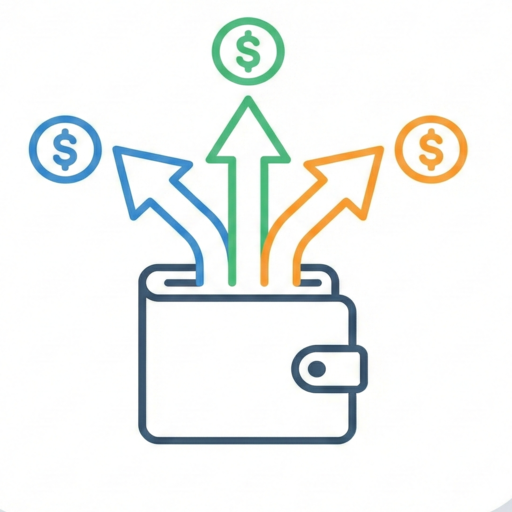
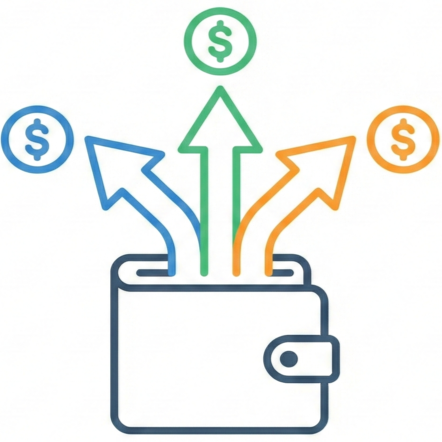
style: large input and small save button

Changed region(s): [[0.0, 0.0, 1.0, 1.0], [0.9706, 0.9706, 1.0, 1.0]]

diff --git a/app/page.tsx b/app/page.tsx
@@ -69,6 +69,11 @@ export default function Home() {
   const [archives, setArchives] = useState<Archives>({});
   const [isCsvMode, setIsCsvMode] = useState(false);
   
+  // --- 編集モード用 State ---
+  const [isEditModalOpen, setIsEditModalOpen] = useState(false);
+  const [editIndex, setEditIndex] = useState<number | null>(null);
+  const [editForm, setEditForm] = useState({ amount: 0, category: "", memo: "", date: "" });
+
   // --- テーマ & リセット用 ---
   const [theme, setTheme] = useState<ThemeOption>('system');
   const [tempResetValues, setTempResetValues] = useState({ special: 0, investCash: 0, investStock: 0 });
@@ -396,6 +401,7 @@ export default function Home() {
     } catch (e) { alert("更新失敗"); }
   };
 
+  // --- 削除処理 ---
   const deleteItem = async (index: number) => {
     if (!user) return;
     if (!confirm("削除しますか？")) return;
@@ -410,6 +416,77 @@ export default function Home() {
     await updateDoc(doc(db, "users", user.uid), { history: newH, savings_balance: ns, invest_cash_balance: nic, invest_stock_balance: nis });
     loadData();
   };
+
+  // --- 編集モード開始 ---
+  const startEdit = (index: number) => {
+    const item = history[index];
+    setEditIndex(index);
+    setEditForm({
+      amount: item.amount,
+      category: item.category,
+      memo: item.memo,
+      date: new Date(item.date).toISOString().split('T')[0] // YYYY-MM-DD
+    });
+    setIsEditModalOpen(true);
+  };
+
+  // --- 編集保存処理 ---
+  const handleUpdateTransaction = async () => {
+    if (editIndex === null || !user) return;
+    
+    try {
+      const docRef = doc(db, "users", user.uid);
+      
+      // 1. 旧データの影響を打ち消す（削除と同じロジック）
+      const oldItem = history[editIndex];
+      let ns = savings, nic = investCash, nis = investStock;
+      
+      if (oldItem.category === "特別支出") ns += oldItem.amount;
+      else if (oldItem.category === "貯金") nic += oldItem.amount;
+      else if (oldItem.category === "投資") { nic += oldItem.amount; nis -= oldItem.amount; }
+      else if (oldItem.category === "臨時収入") nic -= oldItem.amount;
+
+      // 2. 新データの影響を適用（追加と同じロジック）
+      const newAmount = Number(editForm.amount);
+      if (editForm.category === "特別支出") ns -= newAmount;
+      else if (editForm.category === "貯金") nic -= newAmount;
+      else if (editForm.category === "投資") { nic -= newAmount; nis += newAmount; }
+      else if (editForm.category === "臨時収入") nic += newAmount;
+
+      // 3. タイプ判定
+      let newType: 'expense' | 'income' | 'transfer' = 'expense';
+      if (editForm.category === "投資") newType = 'transfer';
+      else if (editForm.category === "臨時収入") newType = 'income';
+
+      // 4. 配列更新
+      const newHistory = [...history];
+      const updateDate = new Date(editForm.date);
+      const now = new Date();
+      updateDate.setHours(now.getHours(), now.getMinutes()); // 時刻は現在時刻で更新
+
+      newHistory[editIndex] = {
+        amount: newAmount,
+        category: editForm.category,
+        memo: editForm.memo,
+        date: updateDate.toISOString(),
+        type: newType
+      };
+
+      // 5. DB保存
+      await updateDoc(docRef, { 
+        history: newHistory, 
+        savings_balance: ns, 
+        invest_cash_balance: nic, 
+        invest_stock_balance: nis 
+      });
+
+      setIsEditModalOpen(false);
+      setEditIndex(null);
+      loadData();
+
+    } catch(e) { alert("更新に失敗しました"); }
+  };
+
 
   const downloadCSV = () => {
     let allData = [...history, ...Object.values(archives).flat()];
@@ -440,12 +517,12 @@ export default function Home() {
             Googleでログイン
           </button>
           
-          {/* このアプリについて (修正済み) */}
+          {/* このアプリについて */}
           <div className="text-left border-t border-gray-100 dark:border-gray-700 pt-6 mt-6">
             <h3 className="text-xs font-bold text-gray-400 dark:text-gray-500 mb-3 tracking-widest uppercase">ABOUT THIS APP</h3>
             <div className="bg-gray-50 dark:bg-gray-800/50 p-5 rounded-2xl text-xs text-gray-600 dark:text-gray-300 border border-gray-200 dark:border-gray-700 leading-relaxed">
               <p className="font-bold text-indigo-600 dark:text-indigo-400 mb-2 text-sm">
-                「3つの財布」管理術
+                富裕層も実践する「3つの財布」管理術
               </p>
               <p className="mb-3">
                 「支出の額は、収入の額に達するまで膨張する」というパーキンソンの法則を避けるため、お金を物理的に3つの財布（生活費・特別費・貯金と投資）に分けるアプリです。
@@ -464,7 +541,6 @@ export default function Home() {
 
   return (
     <div className="min-h-screen bg-gray-50 dark:bg-gray-900 transition-colors duration-300 font-sans text-gray-800 dark:text-gray-100 pb-10">
-      {/* max-w-md から md:max-w-4xl に変更してPC対応 */}
       <div className="max-w-md md:max-w-4xl mx-auto p-4">
         
         {/* Header */}
@@ -480,6 +556,46 @@ export default function Home() {
             </button>
           </div>
         </div>
+
+        {/* 編集モーダル */}
+        {isEditModalOpen && (
+          <div className="fixed inset-0 bg-black/50 backdrop-blur-sm z-50 flex items-center justify-center p-4">
+            <div className="bg-white dark:bg-gray-800 rounded-2xl shadow-2xl p-6 w-full max-w-sm animation-fade-in border border-gray-100 dark:border-gray-700">
+               <h3 className="text-sm font-bold text-gray-700 dark:text-gray-200 mb-4 flex items-center gap-2">
+                 <svg className="w-4 h-4" fill="none" stroke="currentColor" strokeWidth="2" viewBox="0 0 24 24"><path d="M11 5H6a2 2 0 00-2 2v11a2 2 0 002 2h11a2 2 0 002-2v-5m-1.414-9.414a2 2 0 112.828 2.828L11.828 15H9v-2.828l8.586-8.586z" strokeLinecap="round" strokeLinejoin="round"/></svg>
+                 履歴の編集
+               </h3>
+               <div className="space-y-3">
+                 <div>
+                   <label className="text-[10px] text-gray-400 block mb-1">金額</label>
+                   <input type="number" className="w-full p-2 bg-gray-50 dark:bg-gray-700 rounded text-sm font-mono"
+                     value={editForm.amount} onChange={(e)=>setEditForm({...editForm, amount: Number(e.target.value)})} />
+                 </div>
+                 <div>
+                   <label className="text-[10px] text-gray-400 block mb-1">日付</label>
+                   <input type="date" className="w-full p-2 bg-gray-50 dark:bg-gray-700 rounded text-sm font-mono"
+                     value={editForm.date} onChange={(e)=>setEditForm({...editForm, date: e.target.value})} />
+                 </div>
+                 <div>
+                   <label className="text-[10px] text-gray-400 block mb-1">カテゴリ</label>
+                   <select className="w-full p-2 bg-gray-50 dark:bg-gray-700 rounded text-xs"
+                     value={editForm.category} onChange={(e)=>setEditForm({...editForm, category: e.target.value})}>
+                     {categories.map(c => <option key={c} value={c}>{c}</option>)}
+                   </select>
+                 </div>
+                 <div>
+                   <label className="text-[10px] text-gray-400 block mb-1">メモ</label>
+                   <input type="text" className="w-full p-2 bg-gray-50 dark:bg-gray-700 rounded text-xs"
+                     value={editForm.memo} onChange={(e)=>setEditForm({...editForm, memo: e.target.value})} />
+                 </div>
+                 <div className="flex gap-2 mt-4 pt-2 border-t border-gray-100 dark:border-gray-700">
+                    <button onClick={()=>setIsEditModalOpen(false)} className="flex-1 py-2 text-xs font-bold text-gray-500 bg-gray-100 dark:bg-gray-700 dark:text-gray-300 rounded-lg">キャンセル</button>
+                    <button onClick={handleUpdateTransaction} className="flex-1 py-2 text-xs font-bold text-white bg-blue-600 rounded-lg shadow-lg">保存する</button>
+                 </div>
+               </div>
+            </div>
+          </div>
+        )}
 
         {isSettingMode ? (
           // --- 設定画面 ---
@@ -562,7 +678,6 @@ export default function Home() {
                   <p className="text-2xl font-mono font-bold text-gray-800 dark:text-white relative z-10">¥{savings.toLocaleString()}</p>
               </div>
 
-              {/* PCではこのカードも横並びに */}
               <div className="col-span-2 md:col-span-1 bg-gradient-to-r from-indigo-600 to-violet-600 p-5 rounded-3xl shadow-lg text-white relative overflow-hidden">
                   <div className="absolute opacity-10 top-[-20px] left-[-20px] w-32 h-32 bg-white rounded-full blur-2xl"></div>
                   <div className="relative z-10">
@@ -648,9 +763,15 @@ export default function Home() {
                               </div>
                               {item.memo && <p className="text-[10px] text-gray-400 mt-0.5">{item.memo}</p>}
                             </div>
-                            <button onClick={() => deleteItem(index)} className="text-gray-300 hover:text-red-400 transition-colors p-2">
-                                <span className="text-[10px] font-bold">×</span>
-                            </button>
+                            {/* 編集・削除ボタンエリア */}
+                            <div className="flex gap-2">
+                                <button onClick={() => startEdit(index)} className="text-gray-300 hover:text-blue-500 transition-colors p-2">
+                                    <svg className="w-3 h-3" fill="none" stroke="currentColor" strokeWidth="2" viewBox="0 0 24 24"><path d="M11 5H6a2 2 0 00-2 2v11a2 2 0 002 2h11a2 2 0 002-2v-5m-1.414-9.414a2 2 0 112.828 2.828L11.828 15H9v-2.828l8.586-8.586z" strokeLinecap="round" strokeLinejoin="round"/></svg>
+                                </button>
+                                <button onClick={() => deleteItem(index)} className="text-gray-300 hover:text-red-400 transition-colors p-2">
+                                    <span className="text-[10px] font-bold">×</span>
+                                </button>
+                            </div>
                           </div>
                         ))}
                         {history.length === 0 && <p className="text-center text-xs text-gray-300 py-4">履歴はありません</p>}
@@ -658,7 +779,7 @@ export default function Home() {
                     </div>
                 </div>
 
-                {/* 右カラム: グラフ (PCでは常時表示に近い形) */}
+                {/* 右カラム: グラフ (PCでは常時表示) */}
                 <div>
                     {chartData && totalSpent > 0 && (
                       <div className="bg-white dark:bg-gray-800 p-6 rounded-3xl shadow-sm border border-gray-100 dark:border-gray-700 h-full flex flex-col justify-center">
